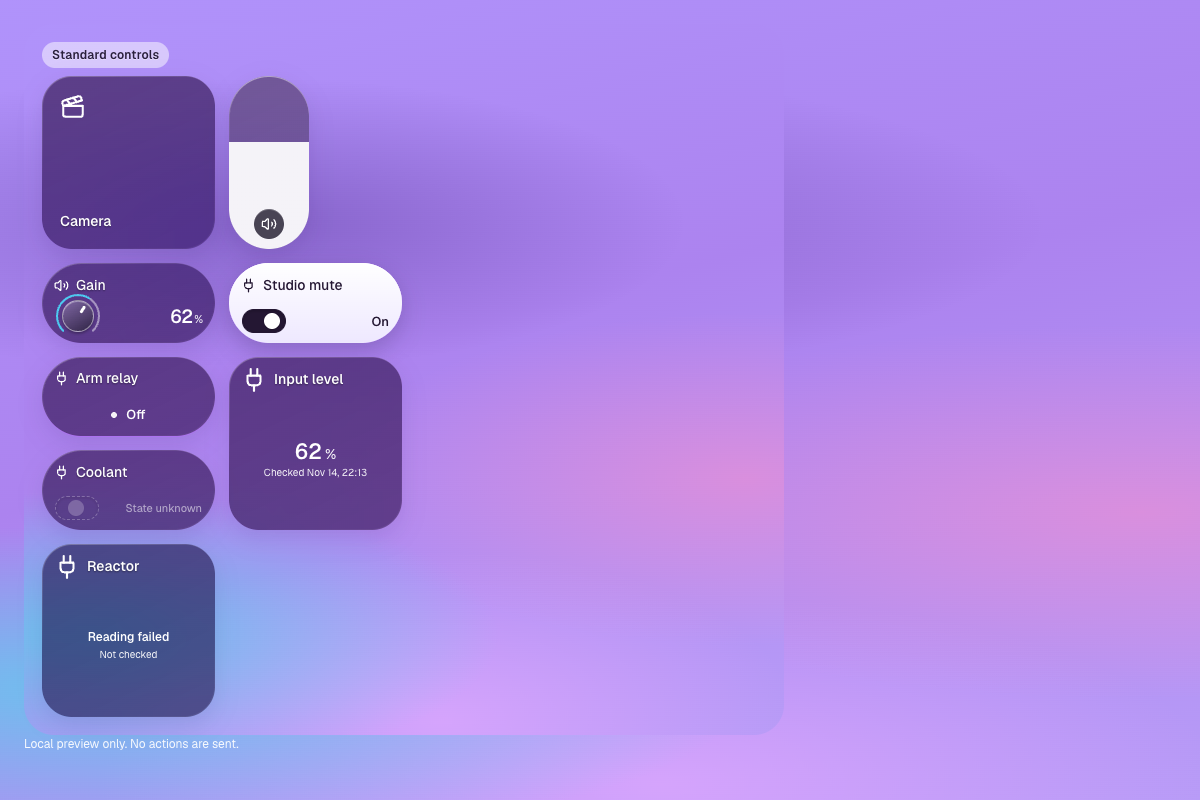
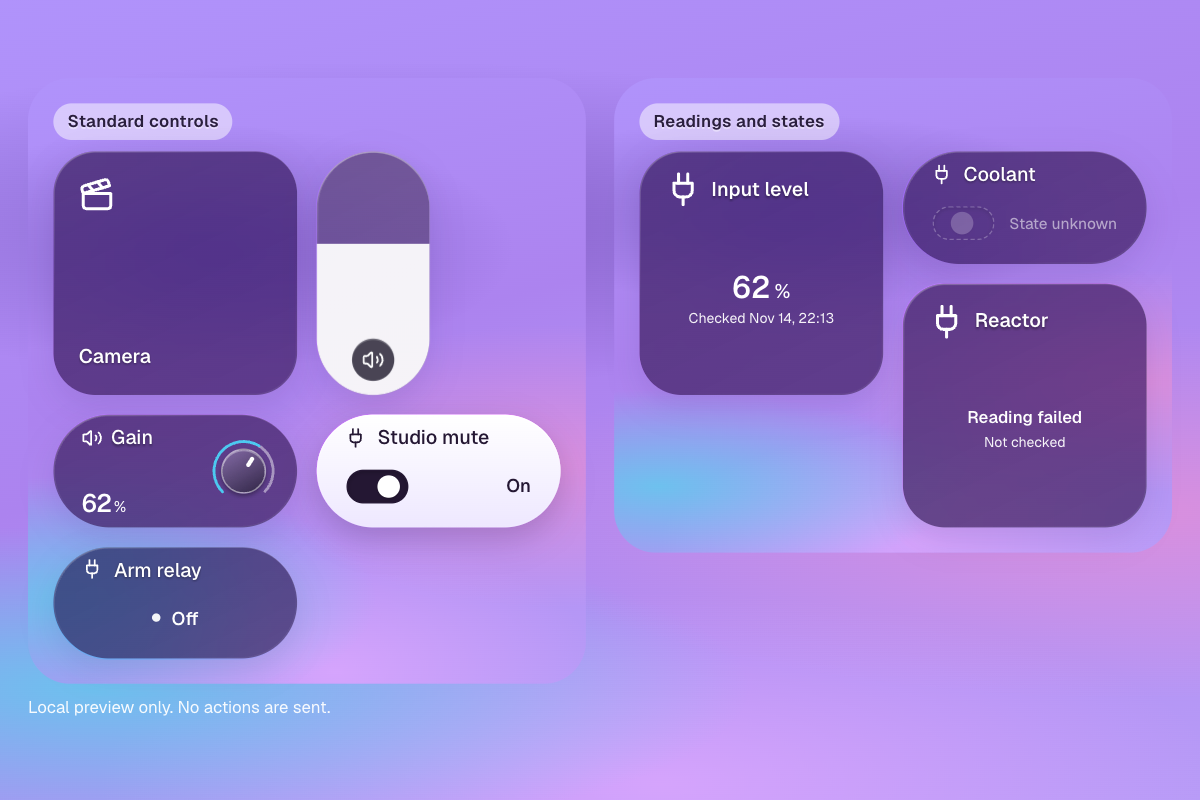
fix: enlarge theme previews and refresh Glass control spacing

diff --git a/src/directory.css b/src/directory.css
@@ -25,7 +25,7 @@
 .sort-controls .dropdown:last-child { width: 182px; }
 .metrics-help { margin-bottom: 10px; color: var(--text-faint); font-size: 10.5px; line-height: 1.5; }
 .plugin-metrics { display: flex; flex-wrap: wrap; gap: 4px 16px; margin-top: 4px; color: var(--text-faint); font-size: 10.5px; font-variant-numeric: tabular-nums; }
-.theme-thumb { display: block; width: 84px; height: auto; aspect-ratio: 960 / 680; object-fit: cover; border: 1px solid var(--border); border-radius: 6px; background: var(--surface); }
+.theme-thumb { display: block; width: 112px; height: auto; aspect-ratio: 1200 / 800; object-fit: cover; border: 1px solid var(--border); border-radius: 6px; background: var(--surface); }
 .metric-value { color: var(--text-muted); }
 .origin-official { color: var(--accent); }
 
@@ -64,5 +64,5 @@
   .directory-results .plugin-row { grid-template-columns: auto minmax(0, 1fr) auto; gap: 10px; padding: 12px 6px; }
   .directory-results .plugin-state { grid-column: 2; grid-row: 2; flex-direction: row; align-items: center; gap: 8px; }
   .directory-results .plugin-arrow { grid-column: 3; grid-row: 1; }
-  .theme-thumb { width: 64px; }
+  .theme-thumb { width: 72px; }
 }

diff --git a/src/components/ThemeRow.tsx b/src/components/ThemeRow.tsx
@@ -13,7 +13,7 @@ export function ThemeRow({ theme, search = "", sort = "relevance", previewUrl }:
     <li className="plugin-item">
       <a className="plugin-row theme-row" href={`#/theme/${theme.id}${search}`}>
         {previewUrl ? (
-          <img className="theme-thumb" src={previewUrl} alt="" width={960} height={680} loading="lazy" />
+          <img className="theme-thumb" src={previewUrl} alt="" width={1200} height={800} loading="lazy" />
         ) : (
           <span className="key-well" aria-hidden="true"><span className="key-cap">{theme.name.slice(0, 1)}</span></span>
         )}

diff --git a/src/styles.css b/src/styles.css
@@ -629,11 +629,13 @@ h1 {
   font-weight: 600;
 }
 
+/* Stacked so the desktop capture gets the detail column's full width and the phone keeps its
+   390px reading size. Both images stay links to the full-size file. */
 .theme-previews {
   display: grid;
-  grid-template-columns: minmax(0, 1fr) 168px;
+  grid-template-columns: minmax(0, 1fr);
   align-items: start;
-  gap: 16px;
+  gap: 20px;
   padding: 22px 0;
   border-bottom: 1px solid var(--border);
 }
@@ -660,7 +662,7 @@ h1 {
 }
 
 .preview-phone img {
-  max-width: 168px;
+  max-width: 390px;
 }
 
 .theme-guidance {

diff --git a/docs/themes.md b/docs/themes.md
@@ -79,8 +79,10 @@ Example source-preview record:
   `<img>` elements with plain-text `alt`; previews are evidence of one sample deck, not a live
   theme runtime, accessibility audit, performance result or platform-support claim.
 - The checked-in built-in previews were captured from zDeck's authentic `ThemePreview` Storybook
-  fixture (buttons, slider, dial, both toggles and a numeric reading) through a local Chromium
-  browser at the fixed viewports. They are not mock-ups or placeholders.
+  fixture (buttons, slider, dial, both toggles, a numeric reading, and the unknown/failed state
+  examples) through a local Chromium browser at the fixed viewports. The desktop capture fits the
+  fixture's content group into 1200 × 800 without cropping; the phone capture keeps its natural
+  layout. They are not mock-ups or placeholders.
 
 ## Browsing and detail
 
@@ -100,6 +102,6 @@ Example source-preview record:
 
 `glass` and `terminal` are genuine built-in zDeck appearances. Their source repository is
 `https://github.com/ZaneH/zdeck`, licence MIT, and their source commit is
-`4550363f027f7807fd7c6537d4aeb699cfdec9f0`. They are marked Official with an HTTPS source-tree
+`c5a1ec849709db6a7d6ac68d6f8a670acdfa352d` (including the shared preview fixture and Glass spacing corrections). Publish that app commit before publishing these registry references. They are marked Official with an HTTPS source-tree
 evidence URL. Inclusion in this directory does not assert accessibility, performance or
 cross-platform verification beyond the checked preview fixture.

diff --git a/docs/design.md b/docs/design.md
@@ -76,8 +76,9 @@ Themes share the plugin directory's shell rather than becoming a card marketplac
 - Rows keep the recessed key/row rhythm, but replace the plugin key well with a small local desktop
   preview thumbnail. They show author, summary, tags and kind. They never show a downloads or
   popularity row: there is no theme metric, so there is no `—` pretending to be one.
-- Theme detail reuses the plugin detail type and panel. It adds a desktop (1200 × 800) and phone
-  (390 × 844) preview of the same sample deck, each with plain-text `alt` and a small caption.
+- Theme detail reuses the plugin detail type and panel. It stacks a desktop (1200 × 800) and phone
+  (390 × 844) preview of the same sample deck at readable widths, each with plain-text `alt`, a
+  small caption and a link to the full-size image.
 - Built-ins say **Included in zDeck**, with the exact **Settings → Appearance** choice and the
   per-section **Theme → …** override. Source previews say **Source preview** and **no installable
   package**. No theme page has an install button or a theme `zdeck://` link.
